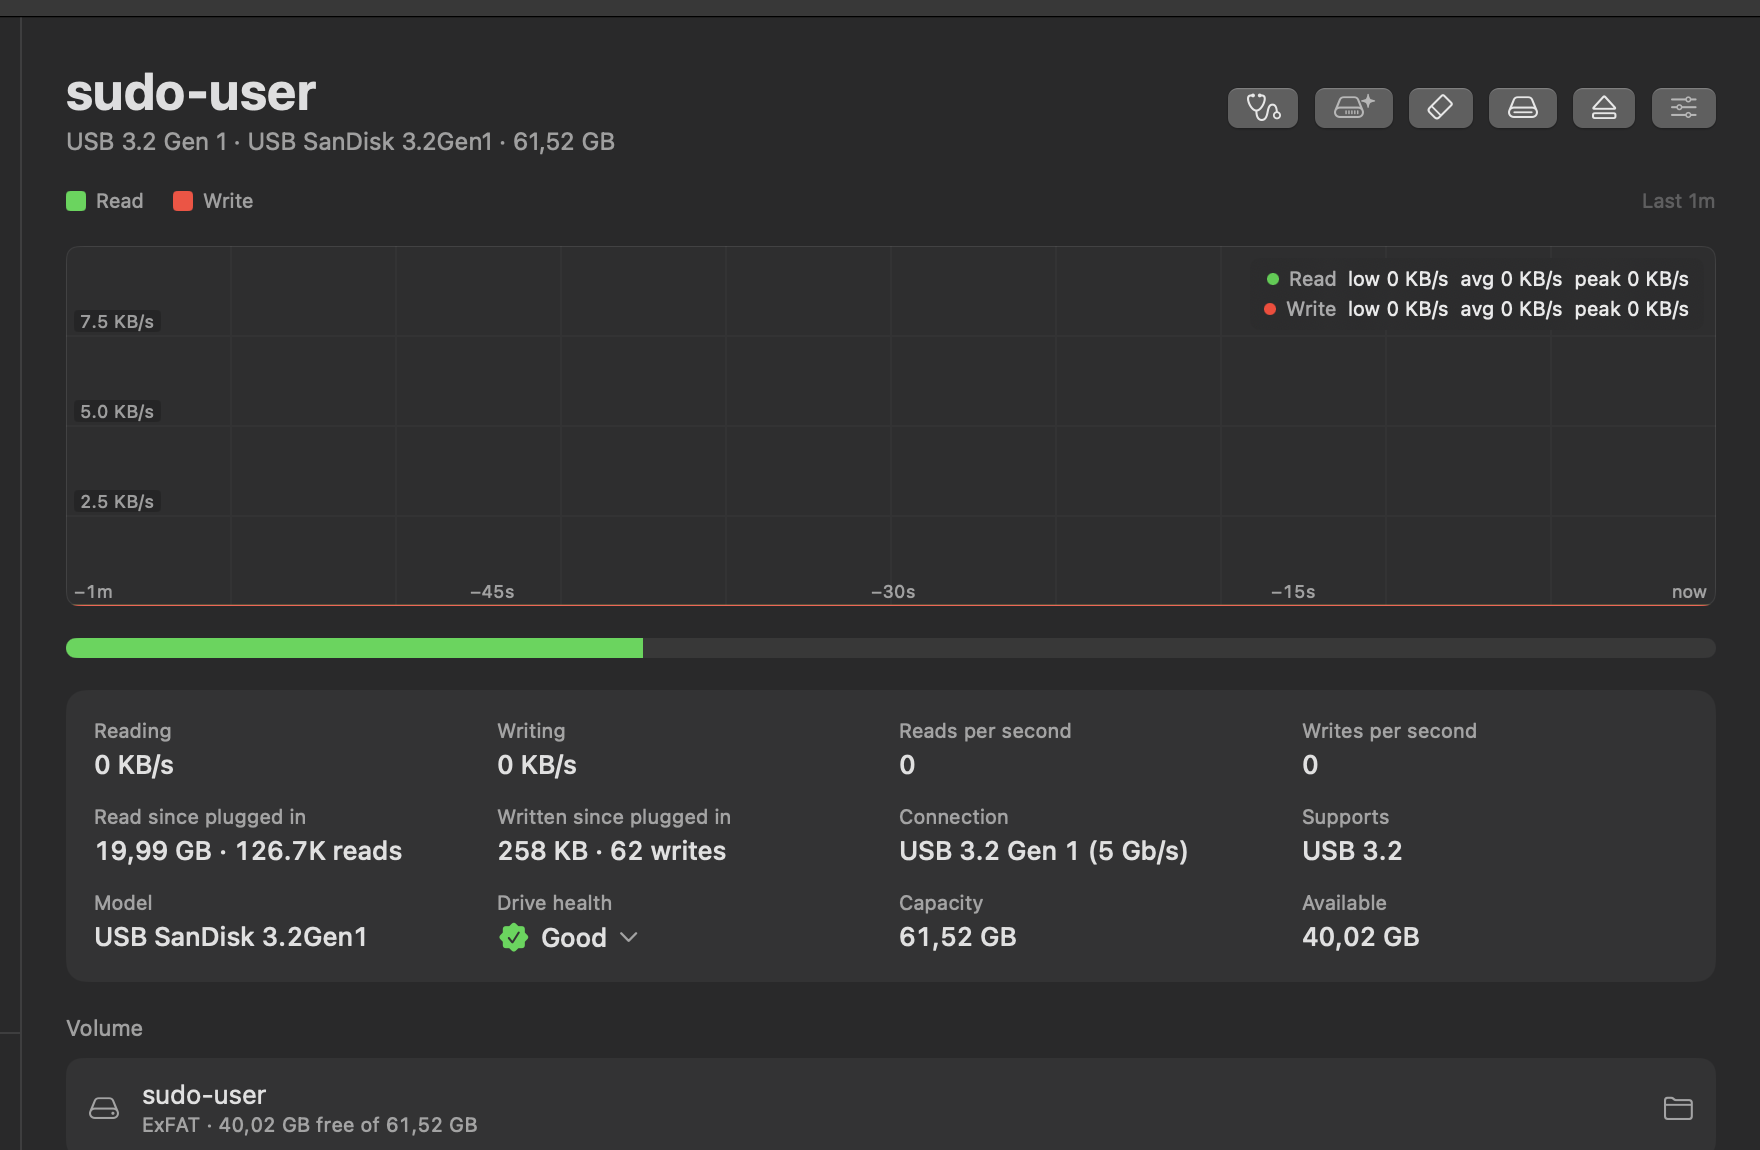
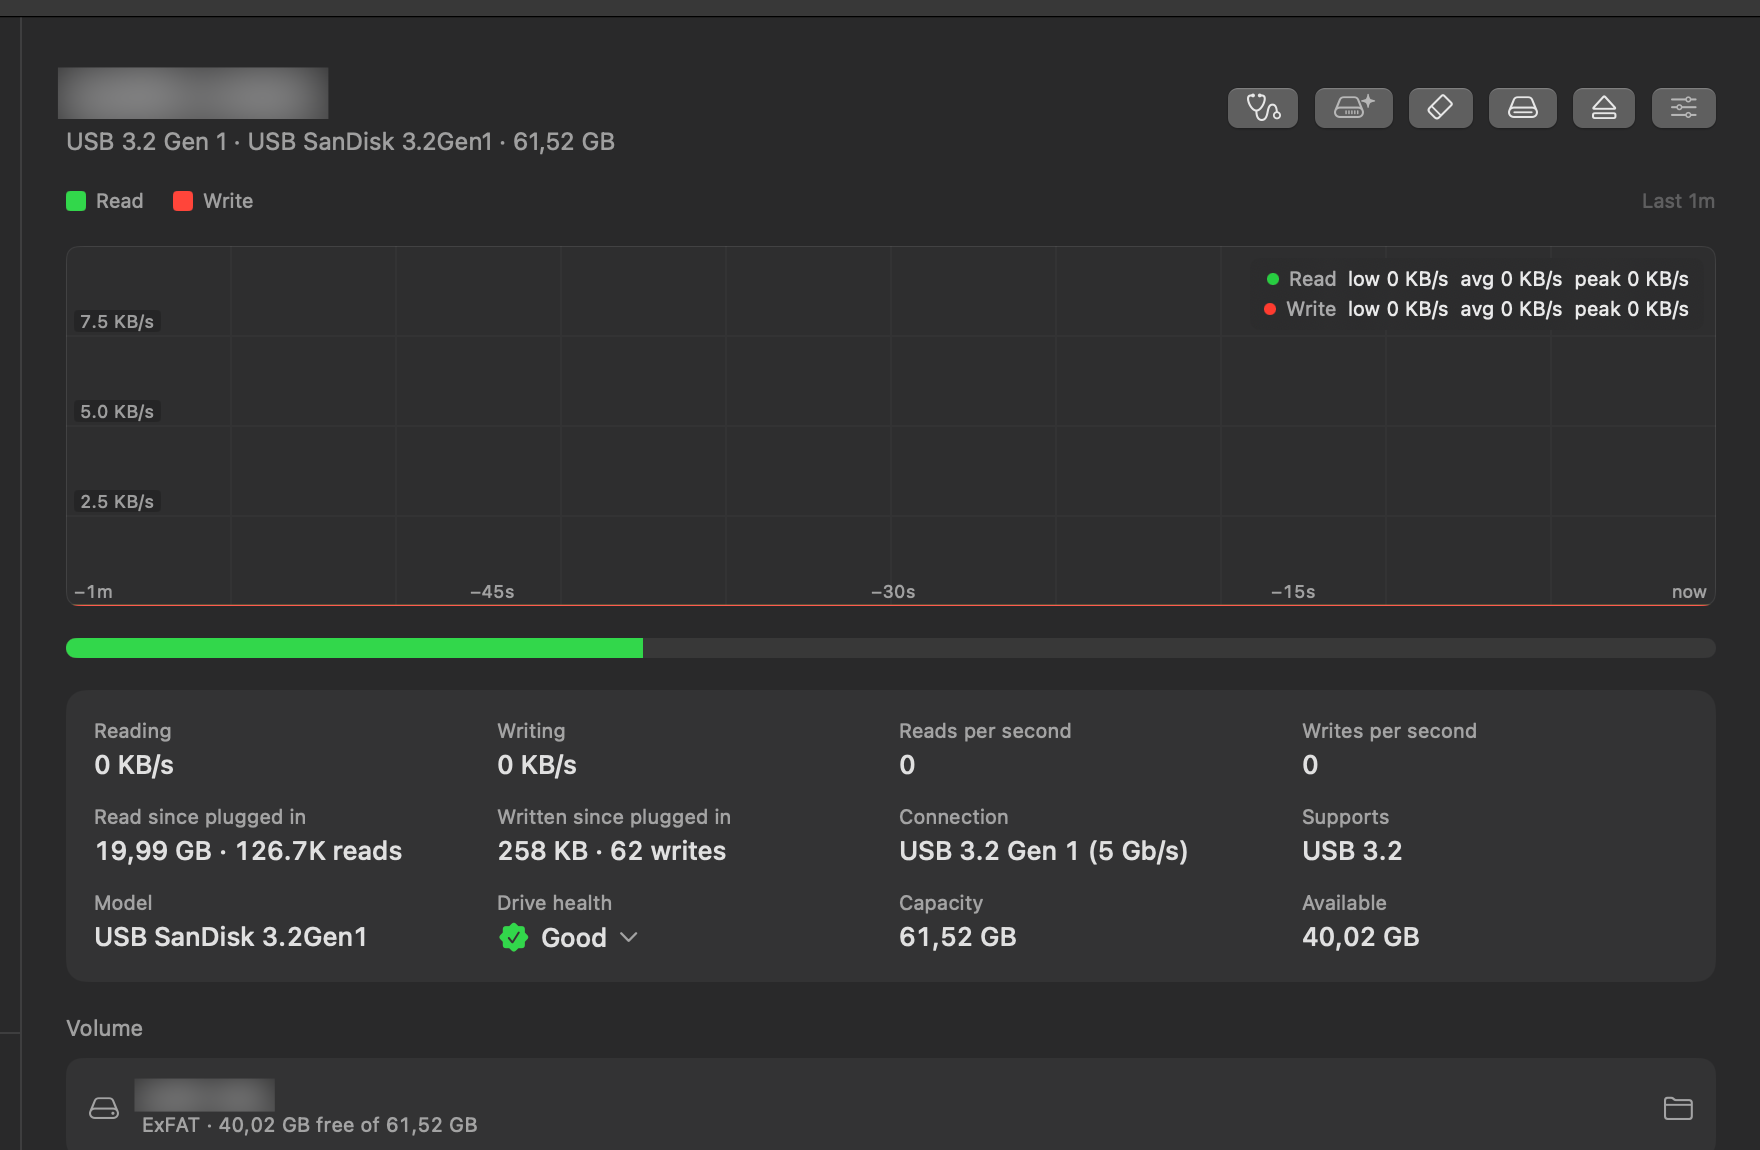
New screenshots, with anything personal blurred
Every image retaken from the current build (except the USB drive page and
the Bootable Media Creator, which need a drive plugged in, and History,
kept from before); the computer and user name, IP and hardware addresses,
host names, a volume name and other apps' names are blurred. Adds
overview.png and a live Memory page demo.gif; memory.png is replaced by
overview.png.

diff --git a/site/index.html b/site/index.html
@@ -184,7 +184,7 @@
     <h2>A closer look</h2>
     <p class="sub">Native macOS design, live graphs, and every number explained.</p>
     <div class="shots">
-      <figure class="shot" data-file="memory.png"><img src="images/memory.png" alt="Memory page: pressure over time, the full memory breakdown, swap and the processes using the most memory" onerror="this.parentElement.classList.add('missing')"><figcaption>Memory pressure, swap and the apps behind them</figcaption></figure>
+      <figure class="shot" data-file="network.png"><img src="images/network.png" alt="Network page: traffic over time, connection details and per-app traffic" onerror="this.parentElement.classList.add('missing')"><figcaption>Which app is using your internet</figcaption></figure>
       <figure class="shot" data-file="processes.png"><img src="images/processes.png" alt="Processes: apps grouped with their helpers, with CPU, memory, disk, network and GPU per process" onerror="this.parentElement.classList.add('missing')"><figcaption>Apps grouped with their helpers</figcaption></figure>
       <figure class="shot" data-file="energy.png"><img src="images/energy.png" alt="Energy: power draw, battery history, charge limit and battery health" onerror="this.parentElement.classList.add('missing')"><figcaption>Battery health and charge control</figcaption></figure>
       <figure class="shot" data-file="drive-doctor.png"><img src="images/drive-doctor.png" alt="Drive Doctor for the startup SSD with status, remaining rated life and findings" onerror="this.parentElement.classList.add('missing')"><figcaption>Drive Doctor explains what it finds</figcaption></figure>

diff --git a/docs/images/README.md b/docs/images/README.md
@@ -1,22 +1,21 @@
 # Screenshots
 
-Images used by the README and the website (`site/`). Capture with the
-window at its default size, in Dark Mode, with nothing personal on screen
-(no real names, addresses, Wi-Fi names or file names you'd rather not share).
+Images used by the README and the website (`site/`). Taken on macOS 15 in
+Dark Mode at the window's default size, without the window shadow.
 
-**Window shots:** ⌘⇧4, then Space, then click the window (macOS adds the
-shadow). **GIF:** record with ⌘⇧5 › Record Selected Portion, then convert
-the .mov to a GIF under about 8 MB (for example 800 px wide, 12–15 fps).
+**Privacy:** every image is checked before it's added. Anything personal is
+blurred: the computer and user name, IP and hardware addresses, host names,
+email addresses, volume names, and other apps' names where they'd distract.
+The check uses macOS's text recognition to find them and a final pass to
+confirm none can still be read.
 
-## Still to capture
-
-| File | What to show | Alt text (already in the README) |
-|---|---|---|
-| `overview.png` | The main window on **Performance › Memory**, sidebar graphs all moving, a few apps open so the lists aren't empty | Apex Activity Manager's main window: the Performance page with live CPU, memory, disk, network and GPU graphs in the sidebar and the Memory page open |
-| `demo.gif` | 10–15 seconds: an app using a lot of memory, **Free Up Memory**, Optimize it, memory pressure going back to Normal | A short demo: Apex shows an app using a lot of memory, Free Up Memory optimizes it, and memory pressure drops back to Normal |
-
-## Already here
-
-`memory.png`, `cpu.png`, `gpu.png`, `processes.png`, `free-up-memory.png`,
-`network.png`, `drive.png`, `drive-doctor.png`, `storage.png`,
-`bootable-media-creator.png`, `energy.png`, `history.png`, `startup.png`.
+| File | What it shows |
+|---|---|
+| `overview.png` | Performance › Memory: the main window with every resource in the sidebar |
+| `demo.gif` | The Memory page updating live (12 seconds) |
+| `cpu.png`, `gpu.png`, `network.png`, `energy.png` | Those Performance pages |
+| `processes.png` | Processes, apps grouped with their helpers |
+| `free-up-memory.png`, `storage.png`, `drive-doctor.png` | Those sheets on their own |
+| `history.png` | History › Events |
+| `startup.png` | Startup |
+| `drive.png`, `bootable-media-creator.png` | A USB drive's page and the Bootable Media Creator (retake with a USB drive plugged in) |

diff --git a/README.md b/README.md
@@ -28,7 +28,7 @@ By **CyberNet Labs**, designed and built by [**sudo-user**](https://github.com/s
 </p>
 
 <p align="center">
-  <img src="docs/images/demo.gif" width="80%" alt="A short demo: Apex shows an app using a lot of memory, Free Up Memory optimizes it, and memory pressure drops back to Normal" />
+  <img src="docs/images/demo.gif" width="80%" alt="Apex's Memory page updating live: RAM used and memory pressure over the last minute, the memory breakdown, swap and the processes using the most memory" />
 </p>
 
 ## Why Apex
@@ -98,10 +98,6 @@ advanced graph with exact values on hover.
   compressed, cache, free, swap and how fast it's moving, RAM type and speed.
 - **GPU:** utilisation, rendering and geometry load, memory, temperature,
   GPU restarts and the processes using the GPU, including local AI models.
-
-<p align="center">
-  <img src="docs/images/memory.png" alt="Apex Performance page showing Memory: RAM used and memory pressure over time, the full memory breakdown, swap and the processes using the most memory" />
-</p>
 
 <p align="center">
   <img src="docs/images/cpu.png" width="49%" alt="CPU page with per-core graphs" />
